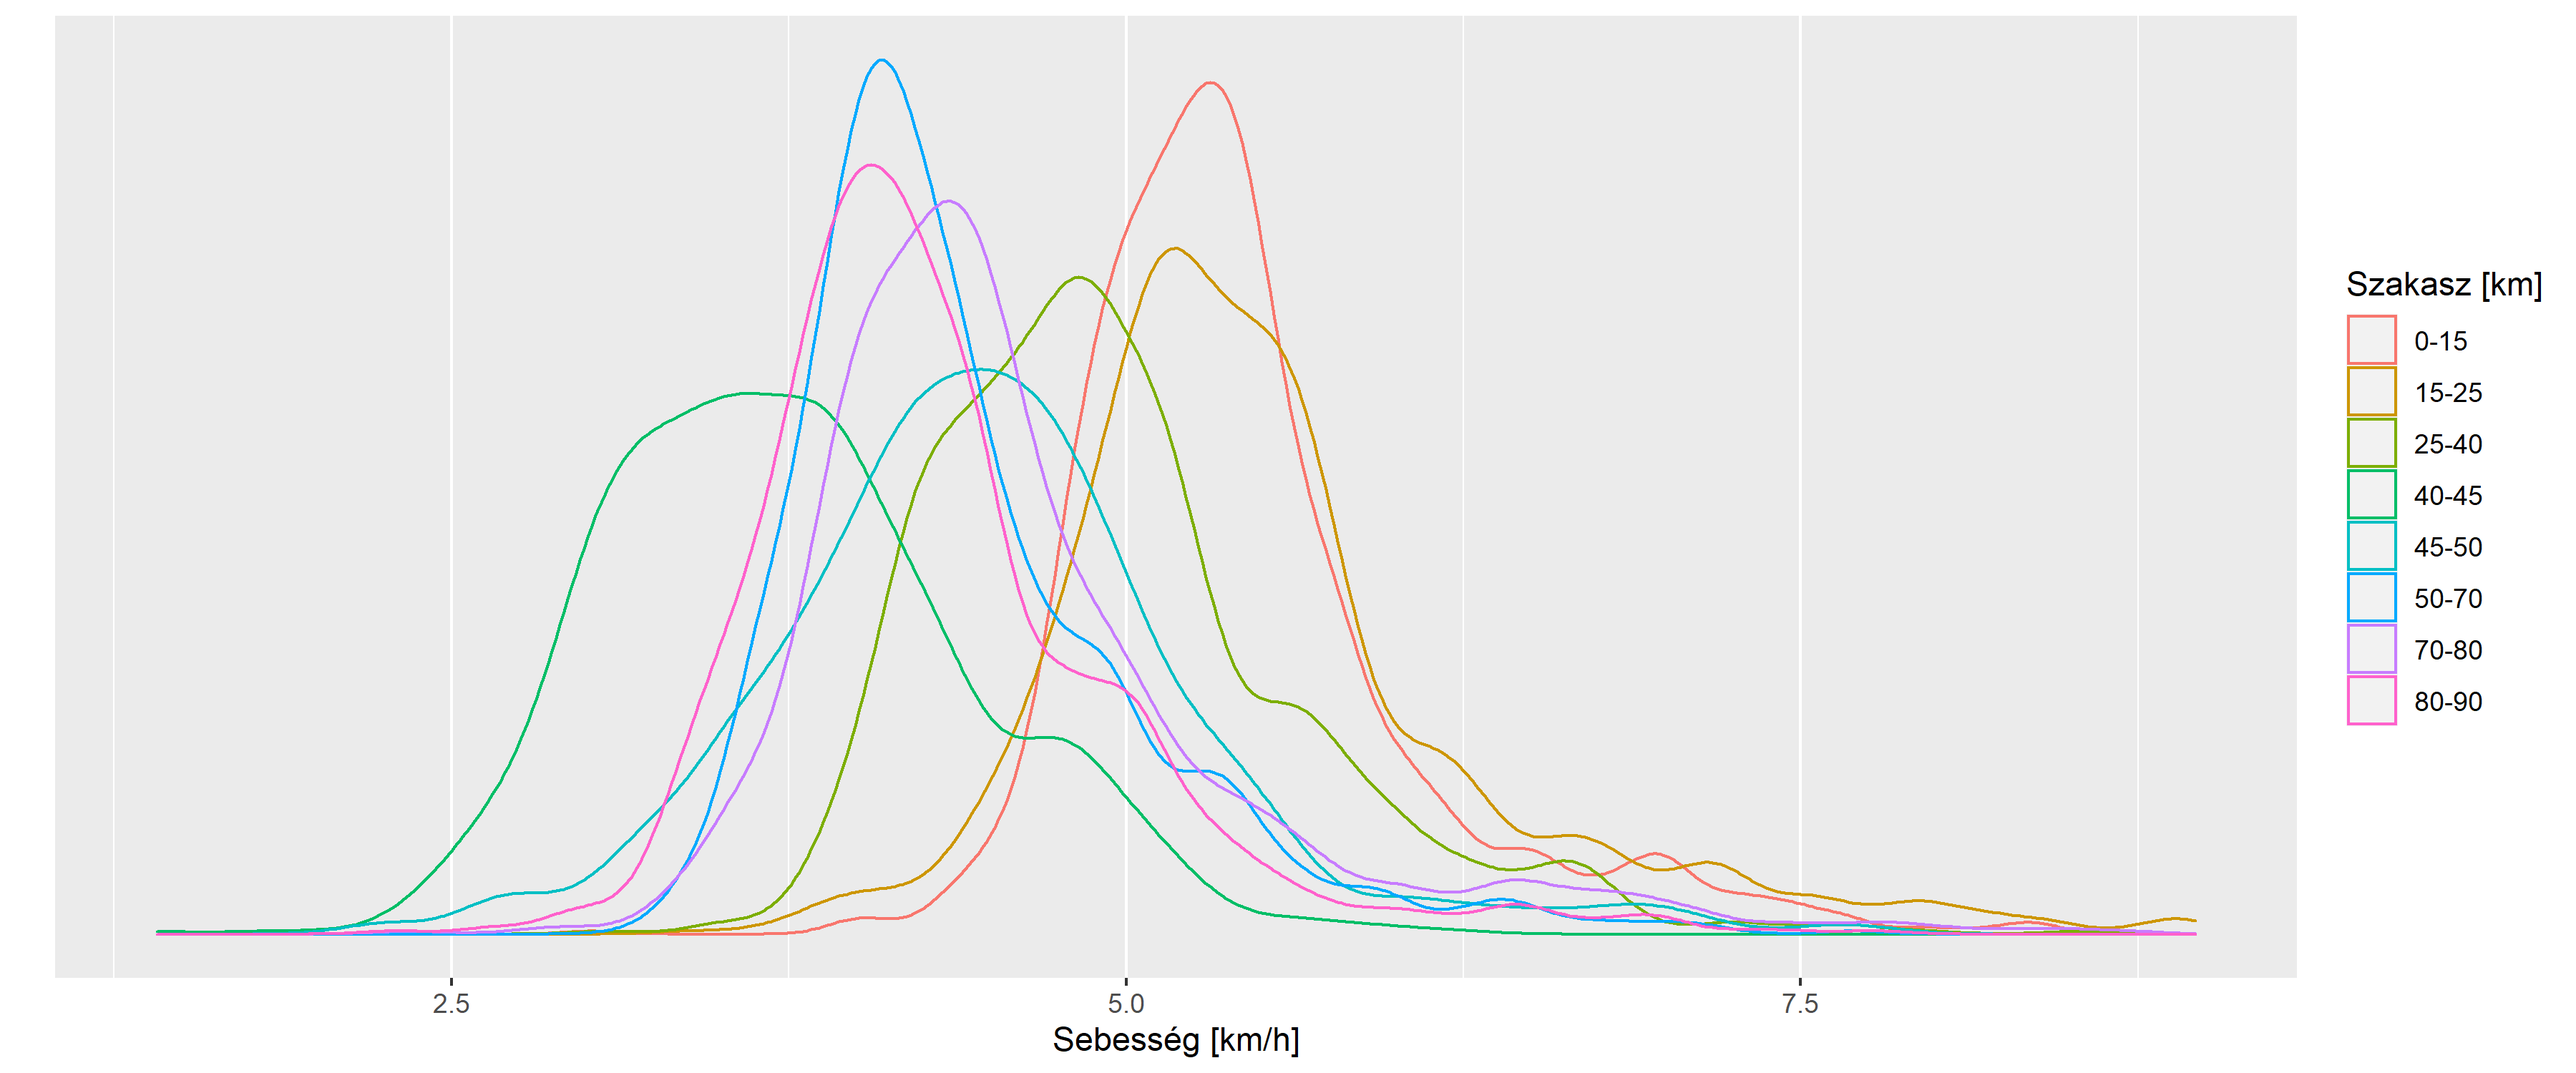
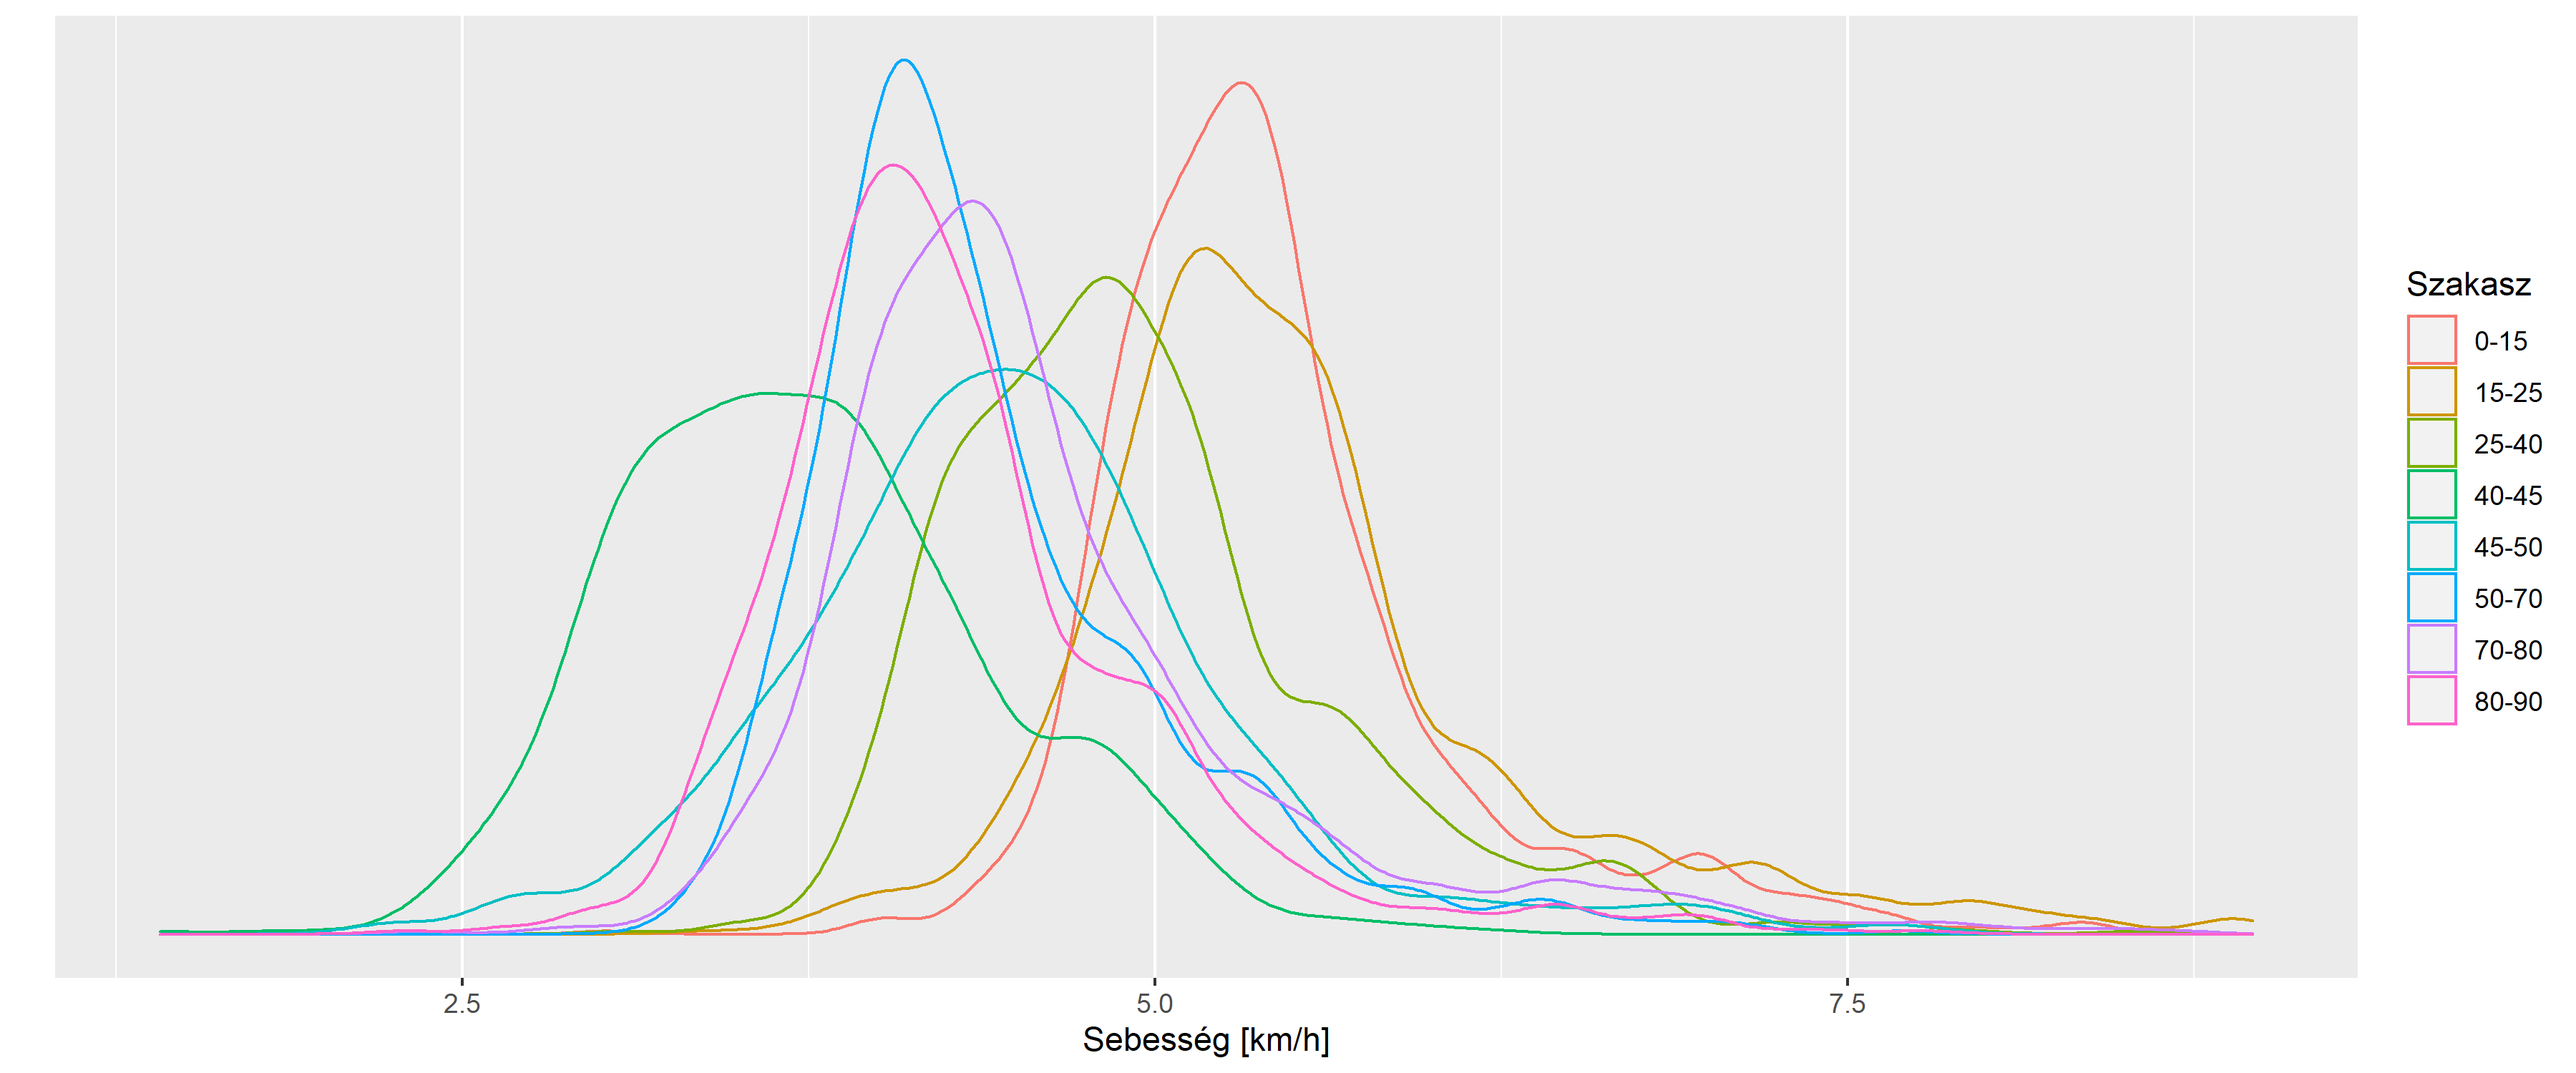
Feladásos ábra tengelyfeliratainak javítása.

diff --git a/README.md b/README.md
@@ -103,8 +103,8 @@ jobb címkékkel:
 
 ``` r
 res <- merge(res, data.table(KM = c(0, 15, 25, 40, 45, 50, 70, 80, 90, 100),
-                             KMTEXT = c("0", "0-15", "15-25", "25-40", "40-45", "45-50",
-                                        "50-70", "70-80", "80-90", "90-100")),
+                             KMTEXT = ordered(c("0", "0-15", "15-25", "25-40", "40-45",
+                                                "45-50", "50-70", "70-80", "80-90", "90-100"))),
              sort = FALSE)
 ```
 
@@ -153,15 +153,14 @@ rajtidőpont sem – sejthetőleg ezek a túrázók el sem indultak). Az ilyen
 értelemben tényleges indulók száma 1202, közülük 993 teljesítette
 sikeresen a 2022-es Kinizsi 100-at; ez 82.6%-os arány.
 
-Érdekes megnézni, hogy a túrát feladók hol szálltak ki. Az alábbi ábrán
-a kilométerek az utolsó ellenőrzőpontot jelentik, ahol még sikeresen
-áthaladt az adott túrázó, magyarán a kiszállás igazából ezen
-ellenőrzőpont után (de még a következő előtt) történt:
+Érdekes megnézni, hogy a túrát feladók hol szálltak ki! Az alábbi ábra
+mutatja az egyes szakaszokon a túrát feladók számát (tehát ennyien
+haladtak át időben a szakasz kezdőellenőrzőpontján, de nem a zárón):
 
 ``` r
-ggplot(data.table(table(res[, .(max(KM)), .(ID)][V1!=100]$V1)), aes(x = V1, y = N)) +
-  geom_bar(stat = "identity") +
-  labs(x = "Utolsó teljesített ellenőrzőállomás", y = "Feladók száma [fő]")
+ggplot(data.table(table(res[, .(levels(res$KMTEXT)[which(levels(res$KMTEXT)==max(KMTEXT))+1]), .(ID)]$V1)),
+       aes(x = V1, y = N)) + geom_bar(stat = "identity") +
+  labs(x = "Szakasz", y = "Feladók száma [fő]")
 ```
 
 ![](README_files/figure-gfm/unnamed-chunk-10-1.png)<!-- -->
@@ -177,8 +176,8 @@ valahol a görbe, annál gyakoribb az olyan sebesség körüli teljesítés:
 
 ``` r
 ggplot(res, aes(x = SPEED, group = KMTEXT, color = KMTEXT)) + geom_density() +
-  labs(x = "Sebesség [km/h]", y = "", color = "Szakasz [km]") +
-  scale_y_continuous(labels = NULL, breaks = NULL)
+  labs(x = "Sebesség [km/h]", y = "", color = "Szakasz") +
+  scale_y_continuous(labels = NULL, breaks = NULL) + scale_color_discrete()
 ```
 
 ![](README_files/figure-gfm/unnamed-chunk-11-1.png)<!-- -->
